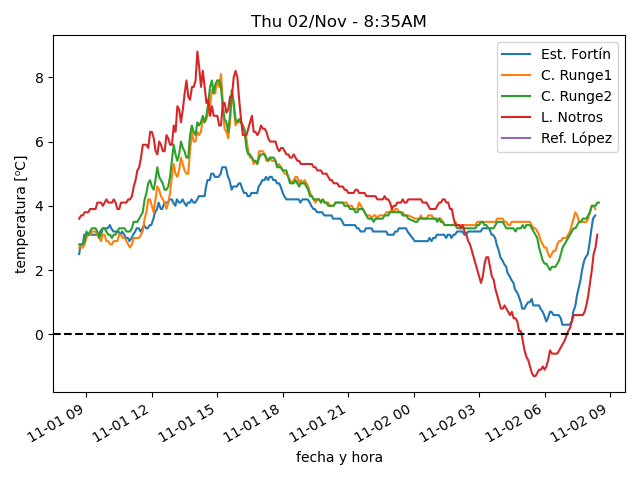
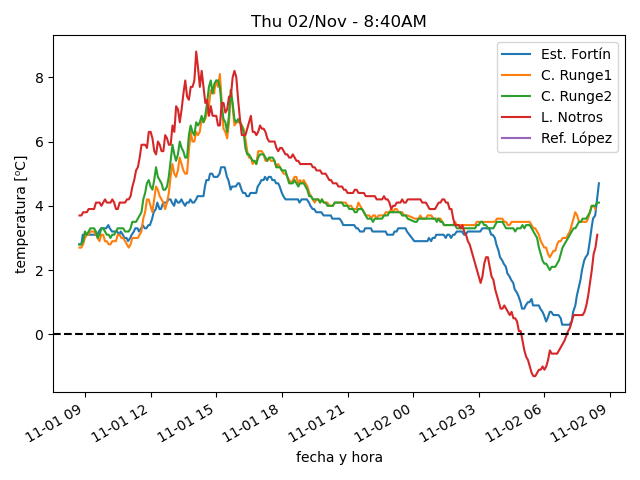
actualiza datos

diff --git a/estaciones/estacion2.html b/estaciones/estacion2.html
@@ -18,22 +18,22 @@
     </tr>
     <tr>
      <td class="stats_data">
-      8:19AM
+      8:29AM
      </td>
     </tr>
     <tr>
      <td class="stats_data">
-      3.7⁰C
+      4.7⁰C
      </td>
     </tr>
     <tr>
      <td class="stats_data">
-      1.7⁰C
+      2.6⁰C
      </td>
     </tr>
     <tr>
      <td class="stats_data">
-      87.0%
+      86.3%
      </td>
     </tr>
     <tr>
@@ -43,7 +43,7 @@
     </tr>
     <tr>
      <td class="stats_data">
-      1.6/3.2 km/hr WNW
+      1.6/3.8 km/hr WNW
      </td>
     </tr>
     <tr>
@@ -53,12 +53,12 @@
     </tr>
     <tr>
      <td class="stats_data">
-      0.6
+      0.8
      </td>
     </tr>
     <tr>
      <td class="stats_data">
-      339.0 W/m²
+      503.0 W/m²
      </td>
     </tr>
    </tbody>
